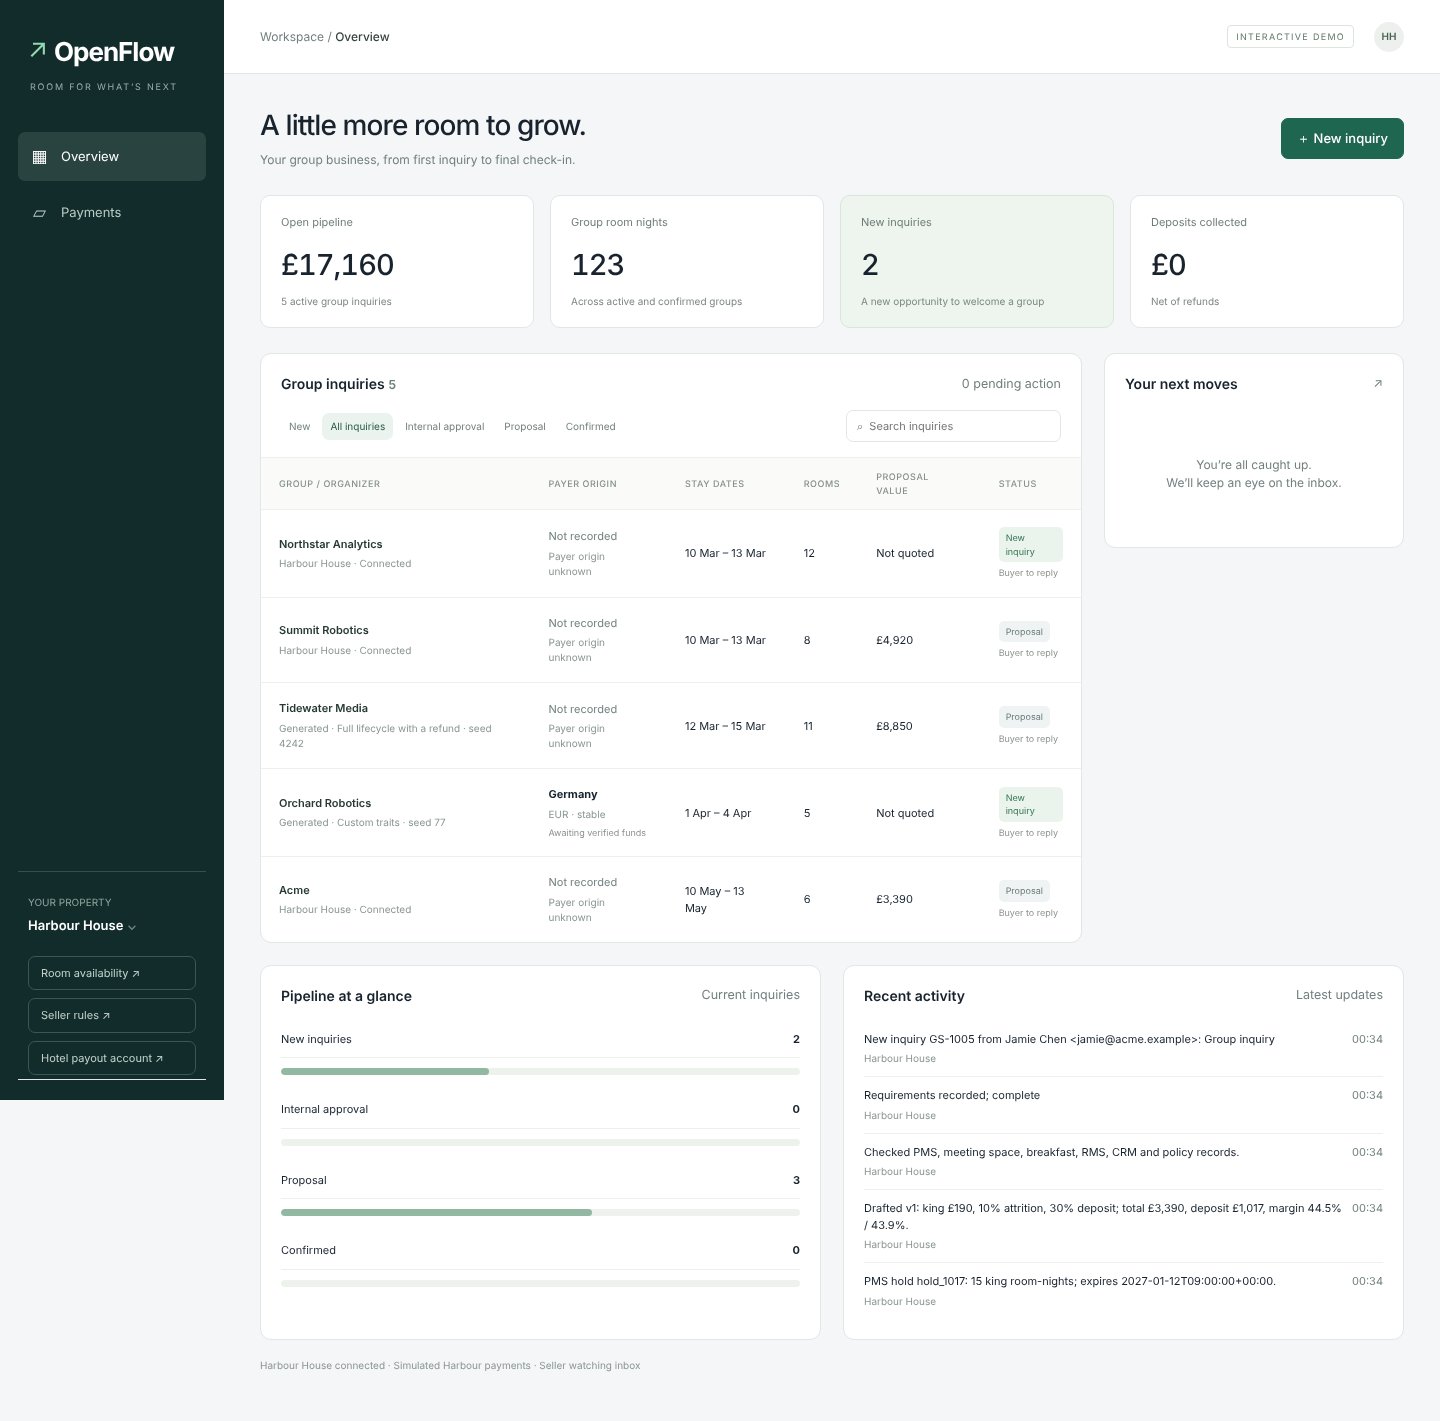
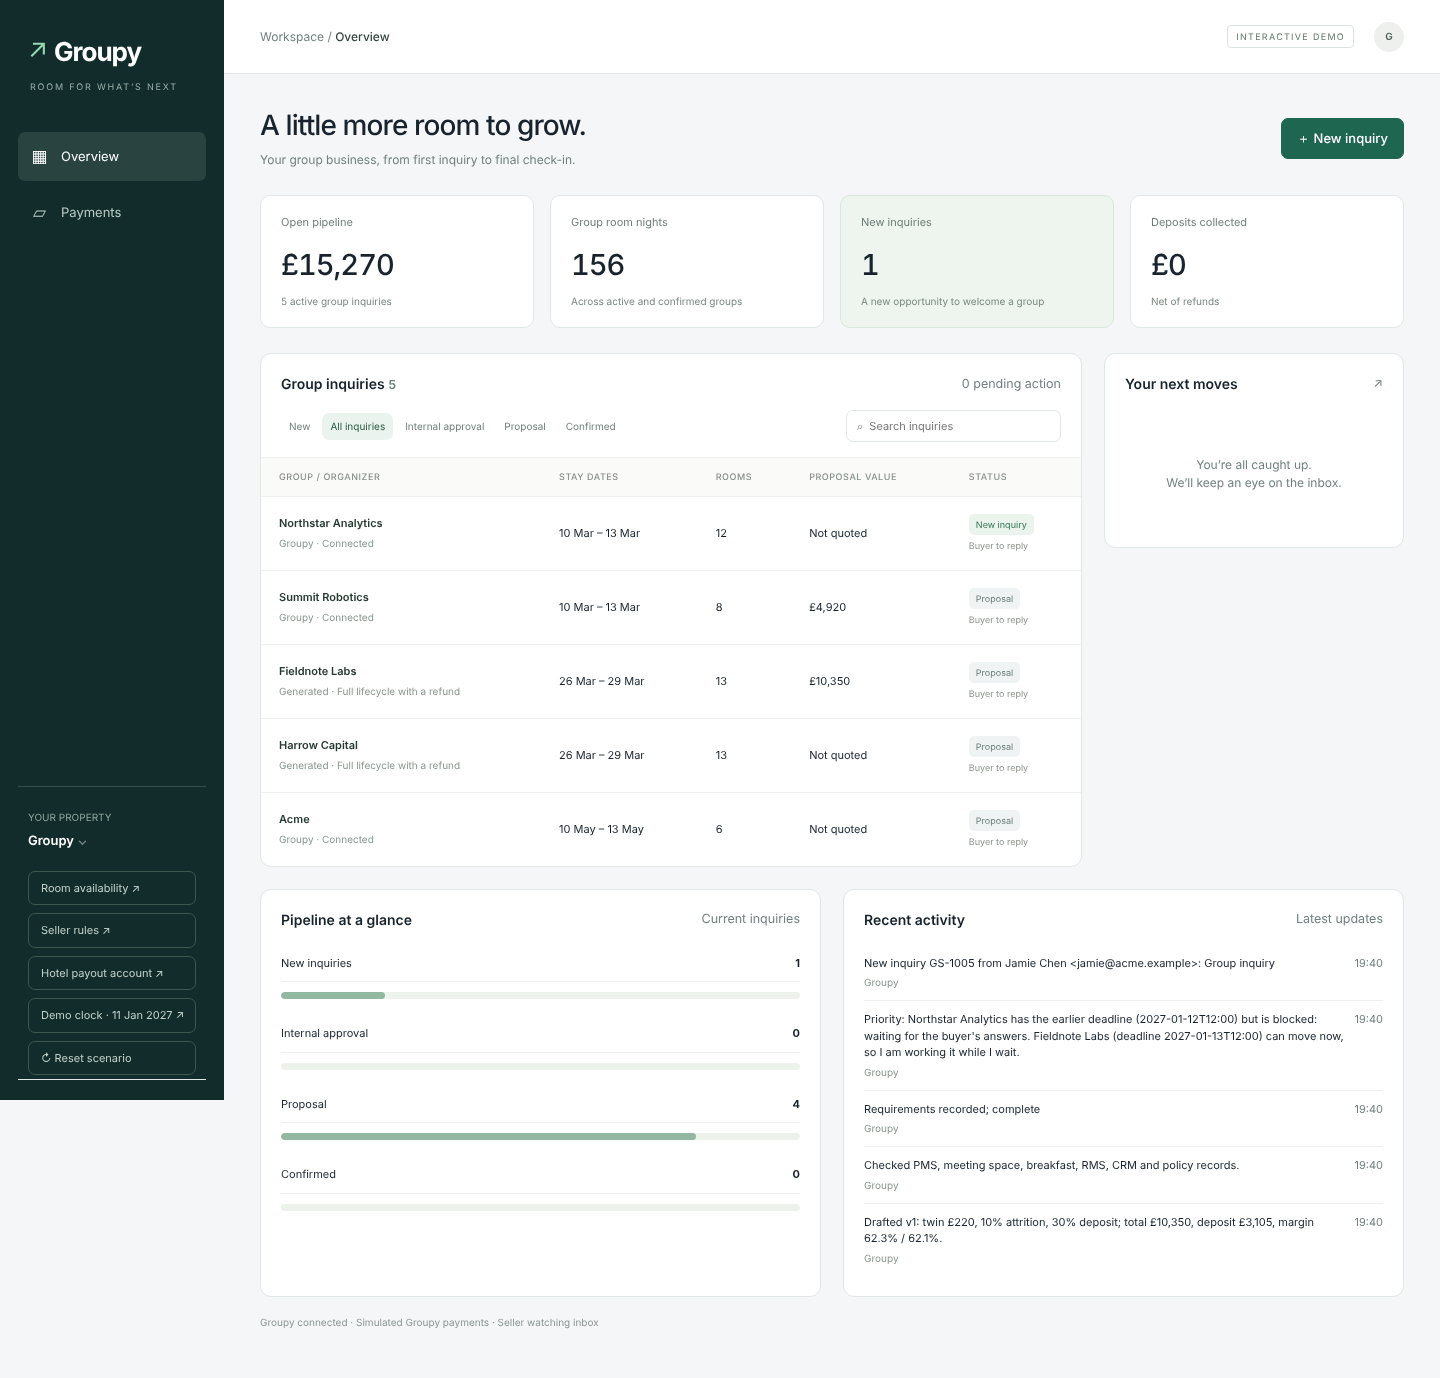
Remove the Seed field from the New inquiry drawer
Each click on a generated inquiry now sends a new one: no Seed field, no
"reuse the seed" hint, and rows no longer show a seed. The API still takes
a seed for scripted runs and tests. The browser test now checks two clicks
on the same preset give two different inquiries; screenshots refreshed.

Claude-Session: https://claude.ai/code/session_01E9LeyTBdsYQRafNhg11Cvd

diff --git a/web/openflow.js b/web/openflow.js
@@ -37,7 +37,7 @@
     const s=actual(); $('wbConnection').textContent=s ? `Groupy connected · ${s.provider==='airwallex'?'Airwallex sandbox':'Simulated Groupy payments'} · ${s.runner.busy || 'Seller watching inbox'}` : 'Connecting to Groupy…';
     if (view==='payments') renderPayments(all); else renderPipeline(all);
   }
-  const source = d => d.generated ? `Generated · ${presetTitle(d.generated)} · seed ${d.generated.seed}` : 'Groupy · Connected';
+  const source = d => d.generated ? `Generated · ${presetTitle(d.generated)}` : 'Groupy · Connected';
   function table(all) {
     const filtered=all.filter(d=>(filter==='all'||filter==='new'&&NEW.includes(d.status)||filter===d.status) && `${d.company} ${d.contact||''} ${d.payer?.origin?.country||''} ${d.payer?.origin?.local_currency||''}`.toLowerCase().includes(search.toLowerCase()));
     return `<div class="wb-table-scroll"><table class="wb-table"><thead><tr><th>Group / organizer</th>${window.FX?'<th>Payer origin</th>':''}<th>Stay dates</th><th>Rooms</th><th>Proposal value</th><th>Status</th></tr></thead><tbody>${filtered.map(d=>`<tr data-open="${html(d.id)}"><td><button class="wb-inquiry" data-open="${html(d.id)}">${html(d.company)}<span class="wb-source">${html(source(d))}</span></button></td>${window.FX?`<td>${window.FX.summary(d.payer)}</td>`:''}<td>${date(d.arrival)} – ${date(d.departure)}</td><td>${d.rooms || '—'}</td><td>${d.total ? money(d.total) : 'Not quoted'}</td><td><span class="wb-status ${d.status}">${html(d.label)}</span><span class="wb-next">${html(d.next)}</span></td></tr>`).join('') || '<tr><td colspan="${window.FX?6:5}" class="wb-empty">No inquiries match. Try another filter or send a new inquiry.</td></tr>'}</tbody></table></div>`;
@@ -88,23 +88,18 @@
       ${thirdPartyForm()}
       ${ownForm(b)}
       <details class="wb-traits wb-generated"><summary>Generated test inquiries</summary>
-        <p class="wb-sub">For repeatable test runs. Each one comes with a private brief that drafts the buyer’s replies in its mailbox; the seller only sees the email, never the brief or which test it is.</p>
-        <label class="wb-field wb-seed">Seed (optional)<input id="wbSeed" inputmode="numeric" pattern="[0-9]*" placeholder="Leave blank for a new inquiry each time"></label>
-        <p class="wb-sub">The same seed sends the same inquiry against the same calendar. After a reset, reuse a seed to replay a run.</p>
+        <p class="wb-sub">A new inquiry each time you click. Each one comes with a private brief that drafts the buyer’s replies in its mailbox; the seller only sees the email, never the brief or which test it is.</p>
         <div class="wb-channel-grid">${cards}</div>
       </details>`, 'NEW INQUIRY');
     wireOwn();
   }
   async function generate(body) {
     body.third_party = thirdPartyOptions();
-    const seed = $('wbSeed')?.value.trim();
-    if (seed && !/^\d+$/.test(seed)) { notify('The seed is a whole number, or leave it blank.'); return; }
-    if (seed) body.seed = Number(seed);
     document.querySelectorAll('[data-preset]').forEach(x => x.disabled = true);
     try {
       const r = await window.Harbour.generate(body);
       $('wbDrawer').close(); refresh(); window.Harbour.open(r.deal_id);
-      notify(`Sent: ${presetTitle(r)} · seed ${r.seed}. Reuse the seed after a reset to replay it.`);
+      notify(`Sent: ${presetTitle(r)}.`);
     } catch (err) {
       notify(err.message);
       document.querySelectorAll('[data-preset]').forEach(x => x.disabled = false);

diff --git a/web/openflow.css b/web/openflow.css
@@ -94,7 +94,6 @@ body:has(.wb-drawer[open]) { overflow:hidden; }
 .wb-terms { display:grid; grid-template-columns:1fr 1fr; gap:0 16px; }
 #wbInbound { margin-bottom:28px; padding-bottom:24px; border-bottom:1px solid var(--line); }
 .wb-generated { margin-top:20px; }
-.wb-seed { margin:22px 0 0; max-width:320px; }
 .wb-traits { margin:8px 0 28px; border:1px solid var(--line); border-radius:10px; padding:14px 18px; background:white; }
 .wb-traits summary { cursor:pointer; font-size:13px; font-weight:550; color:#28634c; }
 .wb-traits[open] summary { margin-bottom:10px; }

diff --git a/docs/OPENFLOW_UX.md b/docs/OPENFLOW_UX.md
@@ -25,13 +25,12 @@ be exceeded, and takes the deposit through Airwallex like any other deal. The dr
   You reply as the buyer from its mailbox.
 - **Generated test inquiries** (`POST /api/simulate/rfp`, see `src/agentbank/groupsales/generator.py`), folded
   below it: one card per preset. Each inquiry comes with a private brief that drafts the buyer's replies; the seller never
-  sees it, or which preset it came from. An optional seed replays the same inquiry against the same calendar,
-  for example after a reset. The drawer has no hand-picked traits form; the API still accepts `traits` for
-  scripted runs and tests.
+  sees it, or which preset it came from. Each click sends a new inquiry: the drawer has no seed field and no
+  hand-picked traits form. The API still accepts `seed` and `traits` for scripted runs and tests.
 - **Buyer replies** are always by you, in the buyer's mailbox (there is no buyer agent). Approvals and
   paying the deposit always stay with a person.
 
-Generated rows show their preset and seed under the company name. The earlier browser-only simulator
+Generated rows show their preset under the company name. The earlier browser-only simulator
 (its fixtures, fake approvals and deposits) has been removed: everything on the workbench comes from the
 engine.
 
@@ -82,8 +81,8 @@ never point it at a deployed dashboard. The default target is port 8011;
 otherwise the test uses `/usr/bin/chromium` if present, then Playwright's browser.
 
 The browser test exercises connected detail/rules, the New inquiry drawer (presets loaded from the
-server, "Write your own" shown first with the generated inquiries folded below it and no traits form, a seeded
-preset, a replayed seed being refused, no buyer agent switch, and writing your own), search through polling, filters, payment-source labels, drawer keyboard focus and mobile
+server, "Write your own" shown first with the generated inquiries folded below it and no traits form, no seed
+field, a new inquiry on each click, no buyer agent switch, and writing your own), search through polling, filters, payment-source labels, drawer keyboard focus and mobile
 layout. It checks that the workbench only writes through `/api/simulate/rfp` and `/api/inbox`. Screenshots are saved below; the before image is rendered from `origin/main` on the same
 isolated backend.
 
